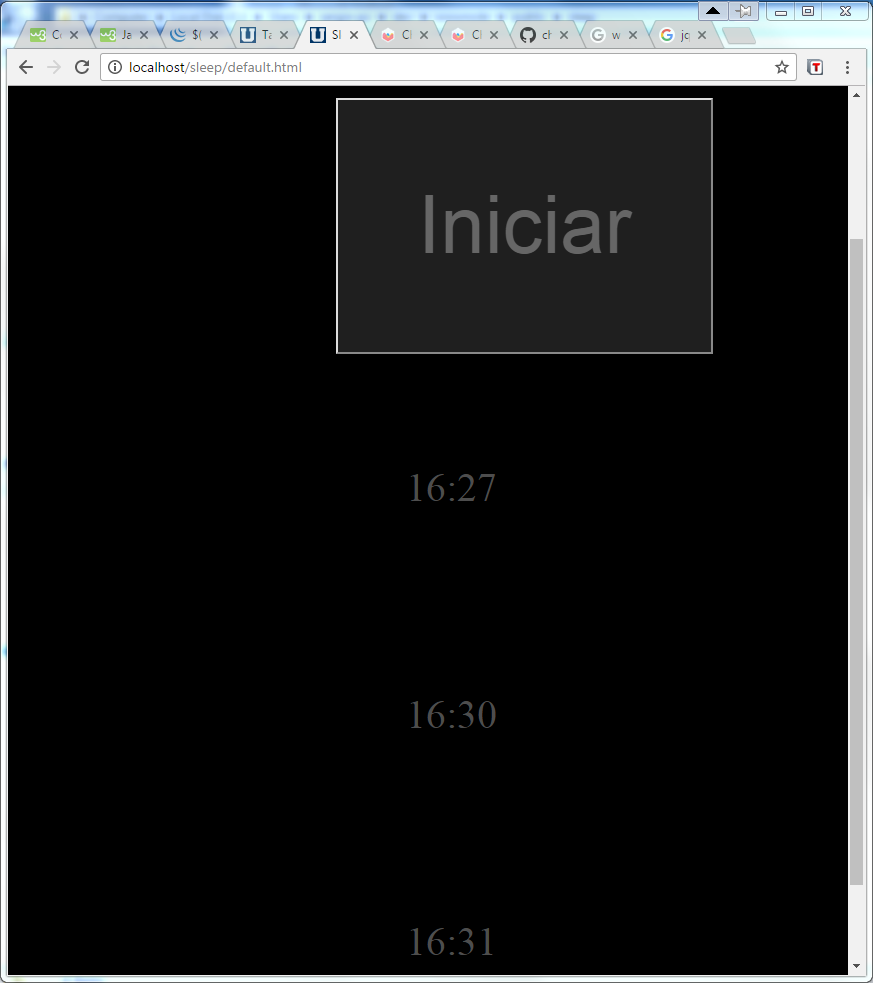
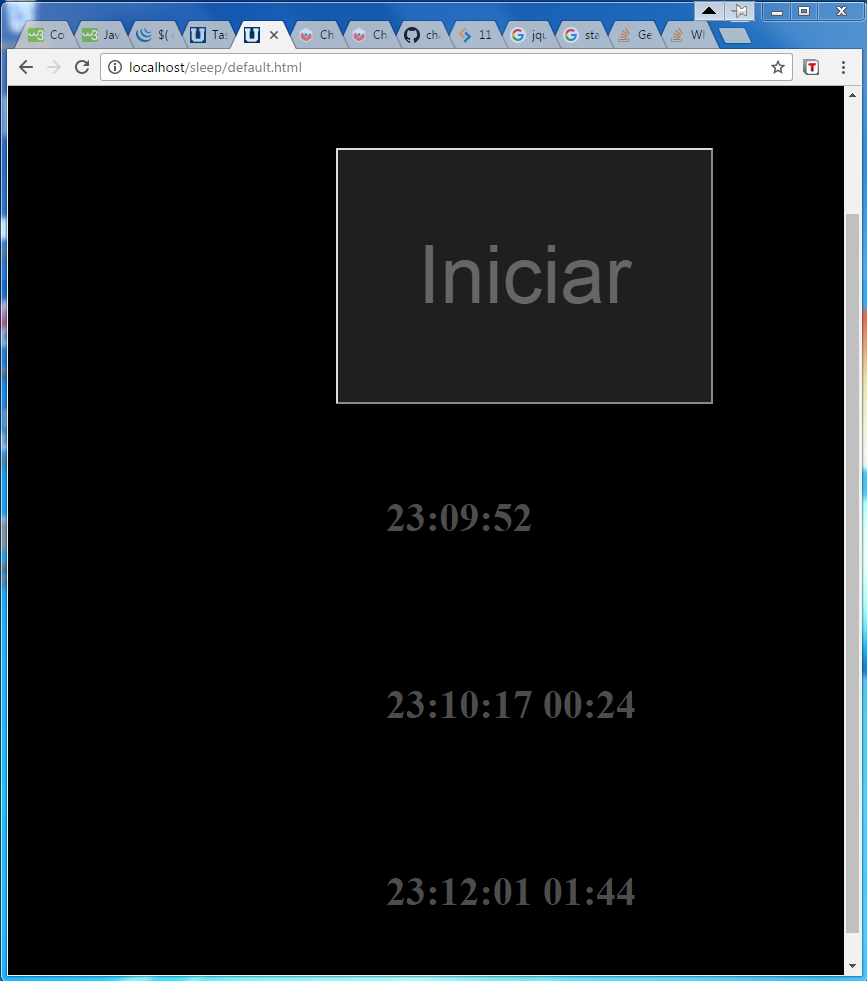
calcula diferencia entre sleep/room y cama/sleep

diff --git a/sleep.js b/sleep.js
@@ -1,11 +1,24 @@
 $(document).ready(function() {
+	e = new Date();
 	a = 0;
     $("button").click(function(){
 		a++;
 		d = new Date();		
-		if (a==1) { $('#room').text(d.format("HH:MM"));	}
-		if (a==2) { $('#sleep').text(d.format("HH:MM")); }
-		if (a==3) { $('#cama').text(d.format("HH:MM"));	}
+		if (a==1) { 
+			$('#room').text(d.format("HH:MM:ss"));	
+			ant = d;
+		}
+		if (a==2) { 
+			miDif = d.getTime() - ant.getTime();
+			e.setTime(miDif);
+			$('#sleep').text(d.format("HH:MM:ss")+ '   ' + e.format("MM:ss") ); 
+			ant = d;
+		}
+		if (a==3) { 
+			miDif = d.getTime() - ant.getTime();
+			e.setTime(miDif);
+			$('#cama').text(d.format("HH:MM:ss")+ '   ' + e.format("MM:ss") ); 		
+		}
 		if (a==3) { a = 0}
     });
 });

diff --git a/sleep.css b/sleep.css
@@ -14,5 +14,6 @@ body {
 p {
 	color: #4d4d4d;
 	font-size: 40px;
-	padding: 70px;
+	font-weight: bold;
+	padding: 50px;
 }
